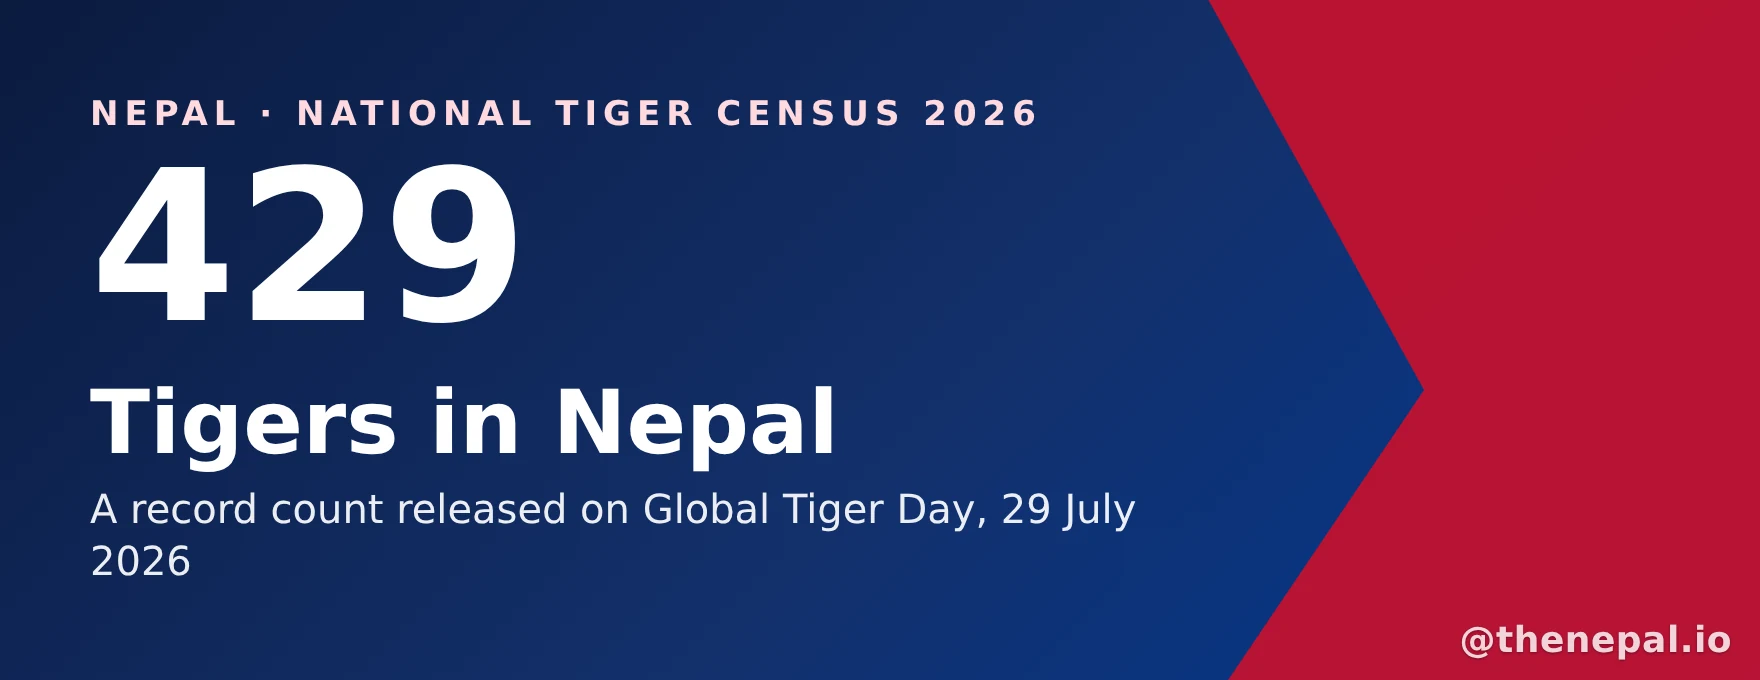
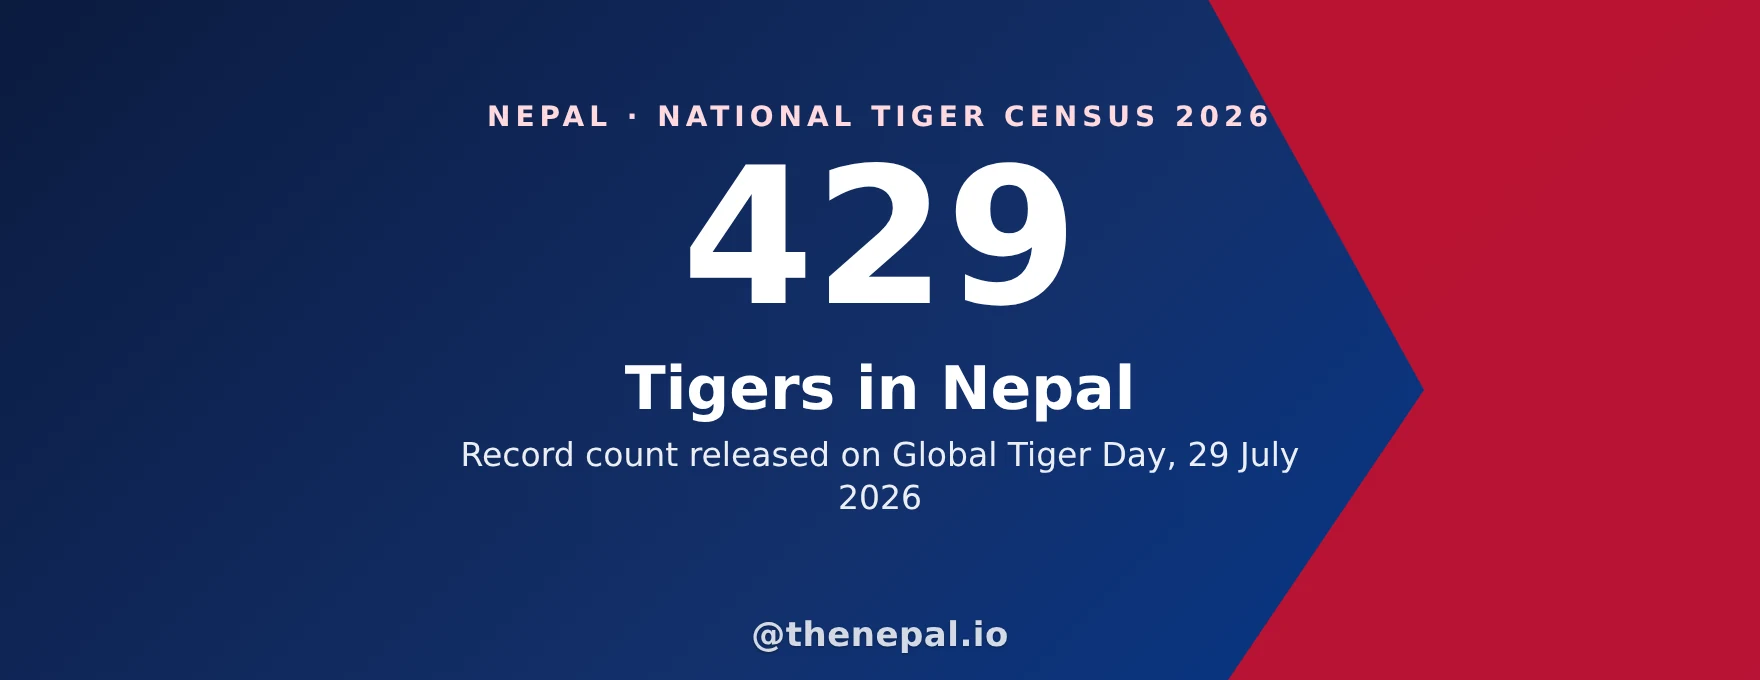
Fix hero infographics cropping on mobile: centre content in the safe zone
Claude-Session: https://claude.ai/code/session_017zASgHPhD5hqgmqMPLuX81

diff --git a/scripts/make_images.py b/scripts/make_images.py
@@ -10,11 +10,11 @@ CSS = f'''*{{box-sizing:border-box;margin:0}}body{{font-family:"DejaVu Sans","Li
 .wm{{position:absolute;right:28px;bottom:20px;font-size:30px;font-weight:700;color:#fff;opacity:.82;letter-spacing:.5px;text-shadow:0 1px 3px rgba(0,0,0,.45)}}
 .hero{{width:1760px;height:680px;position:relative;overflow:hidden;background:linear-gradient(135deg,{NAVY} 0%,#13306b 55%,{BLUE} 100%)}}
 .hero:before{{content:"";position:absolute;right:-120px;top:-160px;width:760px;height:1000px;background:{CRIM};opacity:.92;clip-path:polygon(0 0,100% 0,100% 100%,0 100%,40% 55%)}}
-.hero .in{{position:absolute;left:90px;top:0;bottom:0;display:flex;flex-direction:column;justify-content:center;max-width:1200px}}
-.k{{font-size:34px;letter-spacing:6px;text-transform:uppercase;color:#ffd9de;font-weight:700}}
-.big{{font-size:210px;font-weight:800;line-height:1;margin:10px 0}}
-h1{{font-size:88px;line-height:1.05;font-weight:800;margin:14px 0}}
-.sub{{font-size:40px;opacity:.92;max-width:1050px;line-height:1.3}}
+.hero .in{{position:absolute;left:410px;width:940px;top:0;bottom:60px;display:flex;flex-direction:column;justify-content:center;align-items:center;text-align:center}}
+.k{{font-size:28px;letter-spacing:5px;text-transform:uppercase;color:#ffd9de;font-weight:700}}
+.big{{font-size:190px;font-weight:800;line-height:1;margin:10px 0}}
+h1{{font-size:60px;line-height:1.05;font-weight:800;margin:14px 0}}
+.sub{{font-size:33px;opacity:.92;max-width:900px;line-height:1.3}}
 .chart{{width:1200px;height:675px;position:relative;background:{CREAM};color:#1d2433;padding:34px 44px}}
 .chart h2{{font-size:46px;font-weight:800;color:{NAVY}}}.chart .s{{font-size:27px;color:#5a6378;margin:6px 0 18px}}
 .chart .wm{{color:{NAVY};text-shadow:none;opacity:.7;font-size:32px}}
@@ -22,7 +22,7 @@ h1{{font-size:88px;line-height:1.05;font-weight:800;margin:14px 0}}
 .bar{{height:34px;border-radius:0 6px 6px 0;background:{CRIM}}}.val{{padding-left:10px;font-weight:700;color:{NAVY}}}
 '''
 def hero(big, kicker, title, sub):
-    return f'<style>{CSS}</style><div class="hero"><div class="in"><div class="k">{kicker}</div>' + (f'<div class="big">{big}</div>' if big else '') + f'<h1>{title}</h1><div class="sub">{sub}</div></div><div class="wm" style="font-size:36px">@thenepal.io</div></div>'
+    return f'<style>{CSS}</style><div class="hero"><div class="in"><div class="k">{kicker}</div>' + (f'<div class="big">{big}</div>' if big else '') + f'<h1>{title}</h1><div class="sub">{sub}</div></div><div class="wm" style="font-size:34px;right:auto;left:880px;transform:translateX(-50%);bottom:26px">@thenepal.io</div></div>'
 def chart(title, sub, body):
     return f'<style>{CSS}</style><div class="chart"><h2>{title}</h2><div class="s">{sub}</div>{body}<div class="wm">@thenepal.io</div></div>'
 def hbars(rows, maxv, w=700, color=CRIM):
@@ -54,27 +54,27 @@ def days_body():
         out += f'<div style="display:flex;align-items:center;margin:11px 0"><div style="width:210px;height:76px;background:{CRIM if i%2==0 else BLUE};color:#fff;border-radius:10px;display:flex;align-items:center;justify-content:center;font-size:32px;font-weight:800">{d}</div><div style="margin-left:22px"><div style="font-size:36px;font-weight:800;color:{NAVY}">{n}</div><div style="font-size:25px;color:#5a6378">{t}</div></div></div>'
     return out
 IMAGES = {
- 'nepal_national_parks_hero': (hero('13', 'Nepal · Protected areas', 'National Parks of Nepal', 'The full list with area and year, updated for Chhayanath National Park (2025)'), 1760, 680),
+ 'nepal_national_parks_hero': (hero('13', 'Nepal · Protected areas', 'National Parks of Nepal', 'Full list with area and year, updated for Chhayanath (2025)'), 1760, 680),
  'nepal_national_parks_area': (chart('National parks of Nepal by area (km²)', 'Area in km² · year established', pk_body()), 1200, 900),
- 'nepal_tiger_census_hero': (hero('429', 'Nepal · National tiger census 2026', 'Tigers in Nepal', 'A record count released on Global Tiger Day, 29 July 2026'), 1760, 680),
+ 'nepal_tiger_census_hero': (hero('429', 'Nepal · National tiger census 2026', 'Tigers in Nepal', 'Record count released on Global Tiger Day, 29 July 2026'), 1760, 680),
  'nepal_tiger_census_trend': (chart('Nepal tiger count by census year', 'Wild tigers counted nationwide', trend_body()), 1200, 675),
  'nepal_tiger_census_parks': (chart('Tigers by park: 2022 vs 2026', 'Only Bardiya recorded a decline', park_body()), 1200, 675),
- 'nepal_national_days_hero': (hero('', 'Nepal · Calendar', 'National Days of Nepal', 'Republic Day, National Day, Unity Day, Martyrs’ Day and Democracy Day: dates and meaning'), 1760, 680),
+ 'nepal_national_days_hero': (hero('', 'Nepal · Calendar', 'National Days of Nepal', 'Five days: dates, meaning and next dates'), 1760, 680),
  'nepal_national_days_calendar': (chart('Five national days in Bikram Sambat order', 'Each falls on the same BS date every year', days_body()), 1200, 675),
 }
 
 def trio_hero():
-    cells = ''.join(f'<div style="flex:1;text-align:center"><div style="font-size:150px;font-weight:800;line-height:1">{n}</div><div style="font-size:36px;opacity:.92;margin-top:6px">{l}</div></div>' for n, l in [('429', 'tigers · 2026'), ('752', 'rhinos · 2021'), ('397', 'snow leopards · 2025')])
-    return f'<style>{CSS}</style><div class="hero"><div class="in" style="max-width:1500px;width:1500px"><div class="k">Nepal · Wildlife population</div><h1 style="font-size:70px;margin:12px 0 30px">How many wild animals in Nepal?</h1><div style="display:flex;gap:20px;width:1450px">{cells}</div></div><div class="wm" style="font-size:36px">@thenepal.io</div></div>'
+    cells = ''.join(f'<div style="flex:1;text-align:center"><div style="font-size:118px;font-weight:800;line-height:1">{n}</div><div style="font-size:27px;opacity:.92;margin-top:6px">{l}</div></div>' for n, l in [('429', 'tigers 2026'), ('752', 'rhinos 2021'), ('397', 'snow leopards 2025')])
+    return f'<style>{CSS}</style><div class="hero"><div class="in"><div class="k">Nepal · Wildlife</div><h1 style="font-size:56px;margin:12px 0 26px">Wild animals in Nepal</h1><div style="display:flex;gap:10px;width:940px">{cells}</div></div><div class="wm" style="font-size:34px;right:auto;left:880px;transform:translateX(-50%);bottom:26px">@thenepal.io</div></div>'
 def rhino_body():
     rows = [('Chitwan', 694, '694'), ('Bardiya', 38, '38'), ('Shuklaphanta', 17, '17'), ('Parsa', 3, '3')]
     return hbars(rows, 694, 560) + '<div style="font-size:30px;margin-top:22px;color:#0B1B3F"><b>Total 752</b> in 2021, up from 645 in 2015</div>'
 def snow_body():
     return hbars([('Nepal', 397, '397'), ('India', 718, '718')], 718, 560, BLUE) + '<div style="font-size:26px;margin-top:22px;color:#5a6378;max-width:1050px">Nepal: DNPWC report, data 2015-2024. India: January 2024 status report, as cited by Down To Earth.</div>'
 IMAGES.update({
- 'nepal_rhino_count_hero': (hero('752', 'Nepal · Rhino census', 'One-Horned Rhinos in Nepal', 'Last counted in 2021. The next census is being redesigned.'), 1760, 680),
+ 'nepal_rhino_count_hero': (hero('752', 'Nepal · Rhino census', 'Rhinos in Nepal', 'Last counted in 2021. Next census being redesigned.'), 1760, 680),
  'nepal_rhino_count_chart': (chart('Rhinos by park, 2021 census', 'Greater one-horned rhinoceros', rhino_body()), 1200, 470),
- 'nepal_snow_leopard_hero': (hero('397', 'Nepal · Snow leopard survey', 'Snow Leopards in Nepal', 'First national estimate, released April 2025 (data 2015 to 2024)'), 1760, 680),
+ 'nepal_snow_leopard_hero': (hero('397', 'Nepal · Snow leopard survey', 'Snow Leopards in Nepal', 'First national estimate, released April 2025'), 1760, 680),
  'nepal_snow_leopard_chart': (chart('Snow leopard estimates: Nepal and India', 'Number of individuals', snow_body()), 1200, 470),
  'nepal_wildlife_counts_hero': (trio_hero(), 1760, 680),
 })
